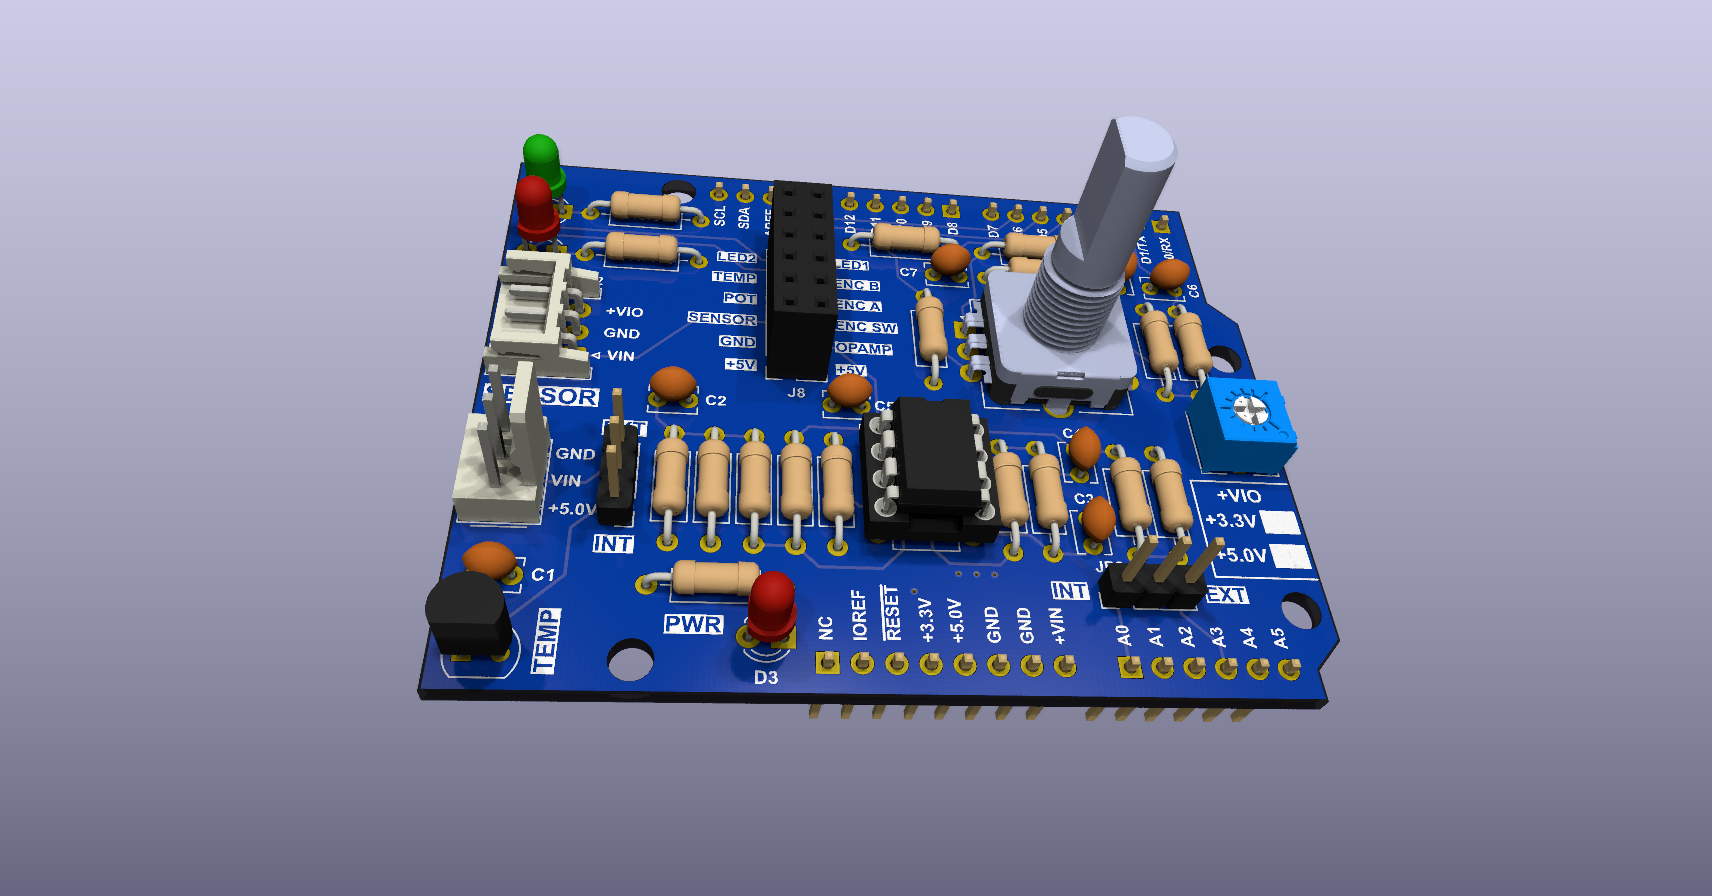
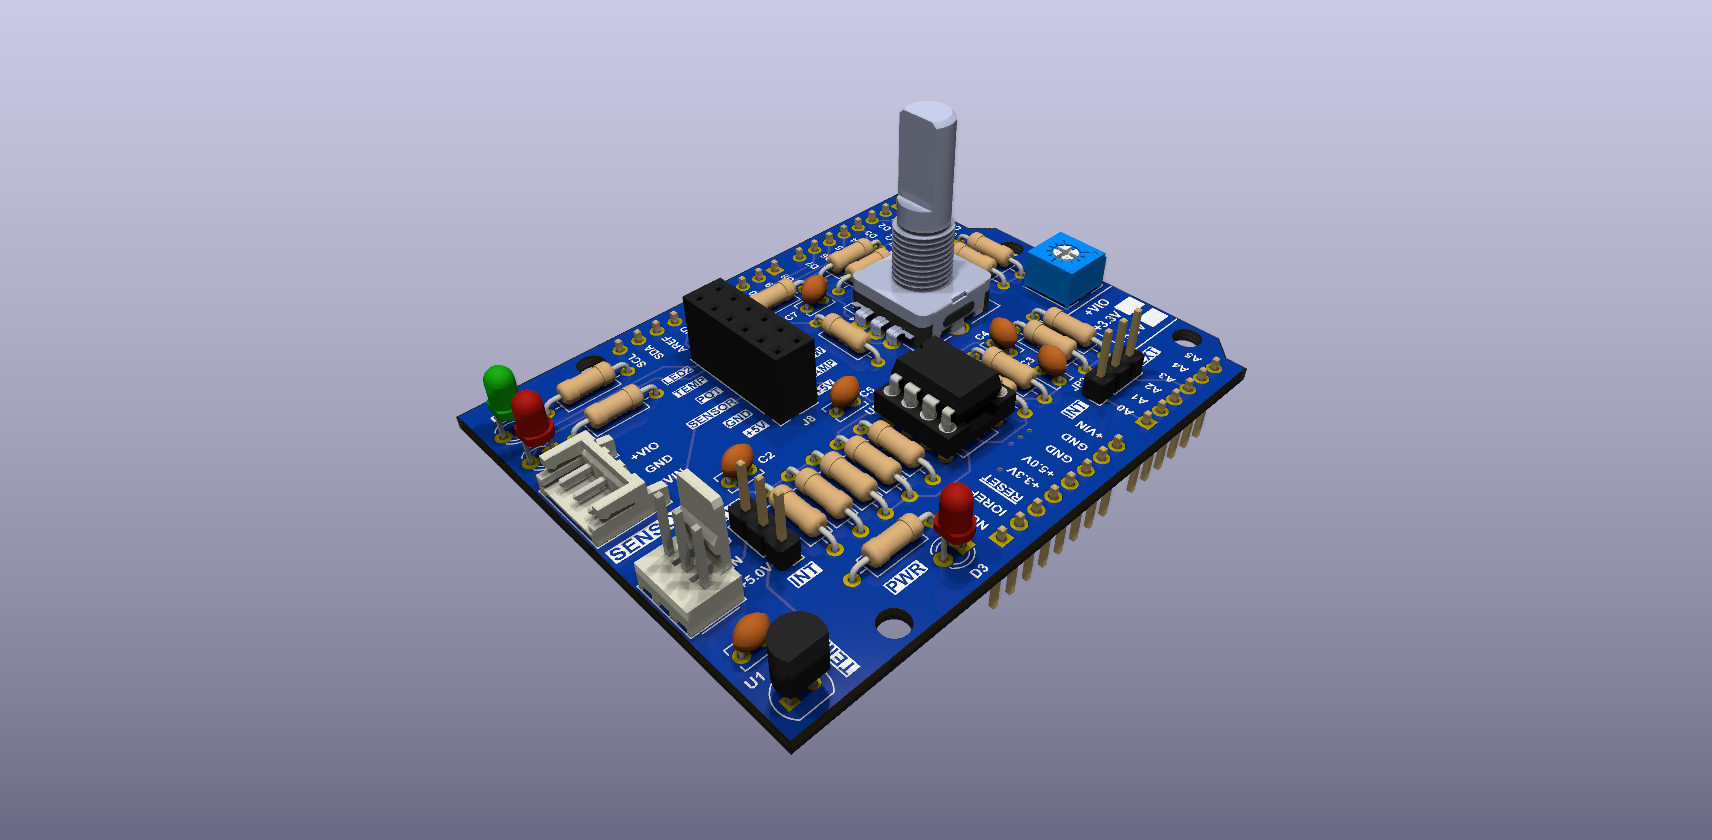
Change GitHub docs layout.

Changed region(s): [[0.2477, 0.1238, 0.8049, 0.8976]]

diff --git a/docs/index.html b/docs/index.html
@@ -30,8 +30,6 @@
     <a href="https://www.physics.utoronto.ca/physics-at-uoft/services/plrs/electronic-support-services/">Electronic Support Services</a>
     <span class="sep" aria-hidden="true">›</span>
     <a href="https://plrs.physics.utoronto.ca/course-listing/">Introduction to Electronics</a>
-    <!-- <span class="sep" aria-hidden="true">›</span> -->
-    <!-- <span class="current">Phyduino Pico</span> -->
   </div>
 </div>
 
@@ -41,6 +39,9 @@
   <div class="board-hero">
     <div class="board-hero-text">
       <span class="board-tag">Introduction to Electronics - Analog Shield</span>
+      <div class="board-img-panel">
+        <img src="./images/AFE_Shield_3D_side01.png" alt="Phyduino Pico board, top view" onerror="this.style.display='none'">
+      </div>
       <p class="board-desc">
         This board is used to train graduate students first and foremost in through hole solder techniques. As part of the 
         training in the course they will as learn analog front end, digital IO design methods as well. Other than a teaching 
@@ -48,13 +49,11 @@
       </p>
       <div class="spec-row">
         <span class="spec-pill">TLV2472A</span>
+        <span class="spec-pill">LMT84</span>
         <span class="spec-pill">4-layer PCB</span>
         <span class="spec-pill">Data Acquisition</span>
         <span class="spec-pill">Rev-C</span>
       </div>
-    </div>
-    <div class="board-img-panel">
-      <img src="./images/AFE_Shield_3D_side02.png" alt="Phyduino Pico board, top view" onerror="this.style.display='none'">
     </div>
   </div>
 
@@ -113,6 +112,11 @@
           <td>TLV2472A</td>
           <td>2.8MHz Rail-to-Rail Input/Output high-drive operational amplifier</td>
           <td><a class="ds-link" href="./pdf/datasheets/OP-AMP - TLV2472A.pdf">PDF</a></td>
+        </tr>
+        <tr>
+          <td>LMT84</td>
+          <td>Analog Output Temperature Sensor</td>
+          <td><a class="ds-link" href="./pdf/datasheets/TEMP SENSOR - LMT84.pdf">PDF</a></td>
         </tr>
       </tbody>
     </table>

diff --git a/docs/style/uoft_physics_perc_sw.css b/docs/style/uoft_physics_perc_sw.css
@@ -130,7 +130,7 @@ body {
 
 /* ── Board hero ── */
 .board-hero {
-  display: grid;
+  display: block;
   grid-template-columns: 1fr 300px;
   gap: 2rem;
   align-items: stretch;
@@ -138,7 +138,7 @@ body {
 }
 
 @media (max-width: 600px) {
-  .board-hero { grid-template-columns: 1fr; }
+  /* .board-hero { grid-template-columns: 1fr; } */
   .board-img-panel { order: -1; }
 }
 
@@ -150,6 +150,7 @@ body {
 .board-hero-text .board-desc {
   flex: 1;
 }
+
 
 .board-tag {
   display: inline-block;
@@ -163,6 +164,7 @@ body {
   margin-bottom: 10px;
   font-weight: 500;
   letter-spacing: 0.03em;
+  text-align: center;
 }
 
 h1 {
@@ -179,7 +181,9 @@ h1 {
   color: var(--text-2);
   line-height: 1.65;
   margin-bottom: 1.25rem;
-  max-width: 52ch;
+  margin-left: 5px;
+  margin-right: 5px;
+  /* max-width: 52ch; */
 }
 
 .spec-row {
@@ -202,6 +206,7 @@ h1 {
 }
 
 .board-img-panel {
+  height: 350px;
   background: var(--surface);
   border: 1px solid var(--border);
   border-radius: var(--r-lg);
@@ -210,6 +215,7 @@ h1 {
   display: flex;
   align-items: center;
   justify-content: center;
+  margin-bottom: 10px;
 }
 
 .board-img-panel img {
@@ -519,5 +525,3 @@ h1 {
 
 .footer-inner a       { font-family: Arial, Helvetica, sans-serif; color: rgba(255, 255, 255, 0.70); text-decoration: underline; }
 .footer-inner a:hover { color: rgba(255, 255, 255, 1); }
-
-
